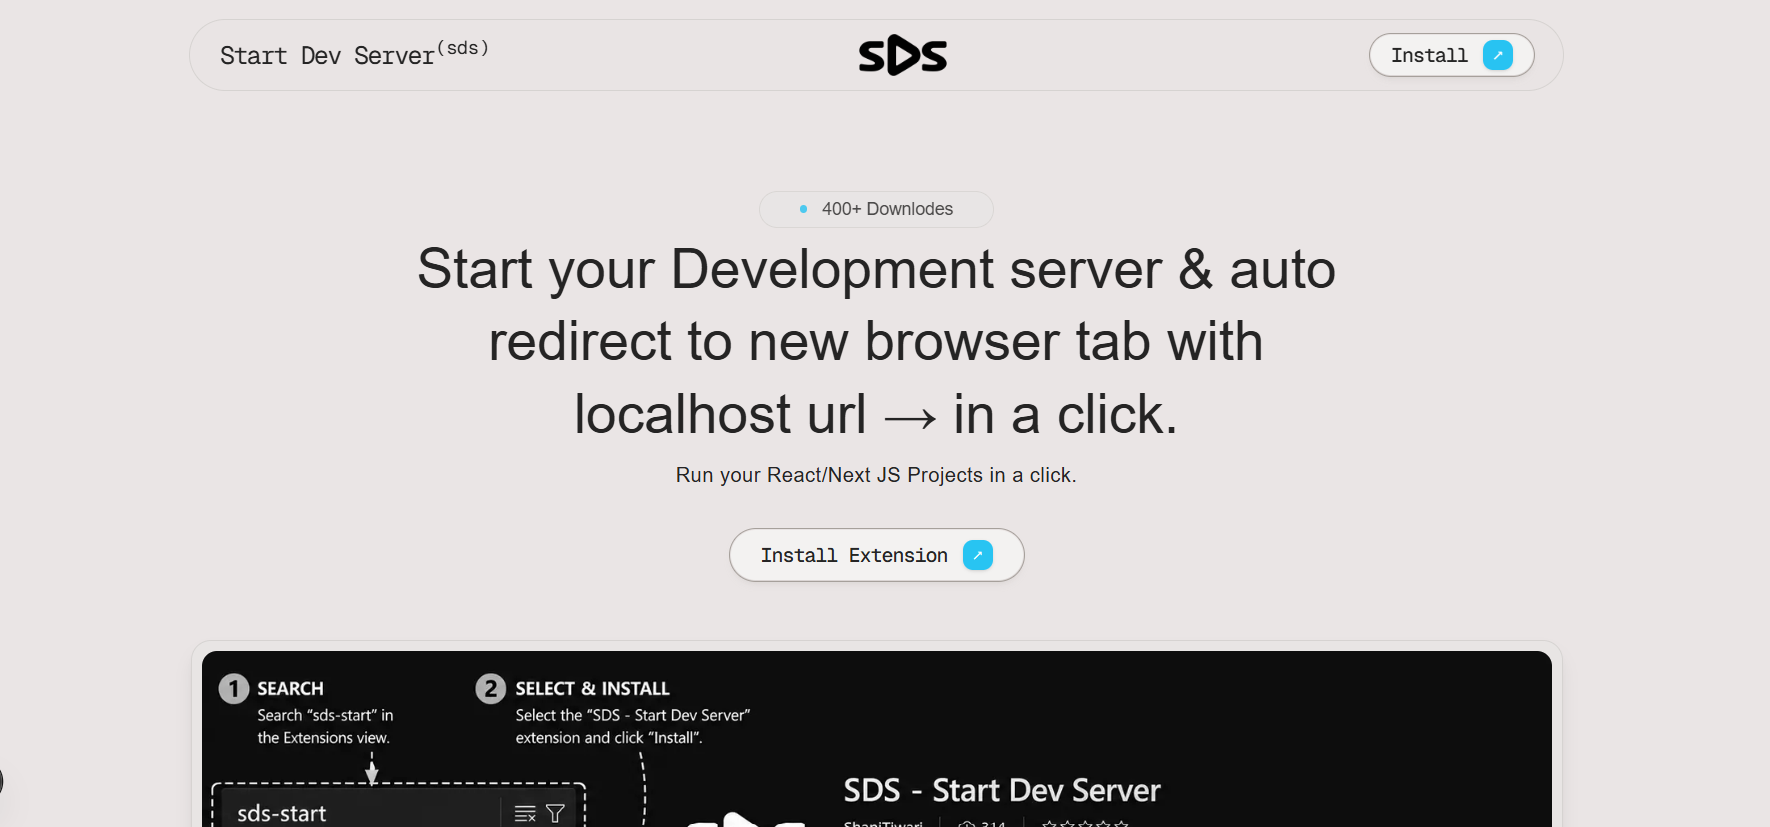
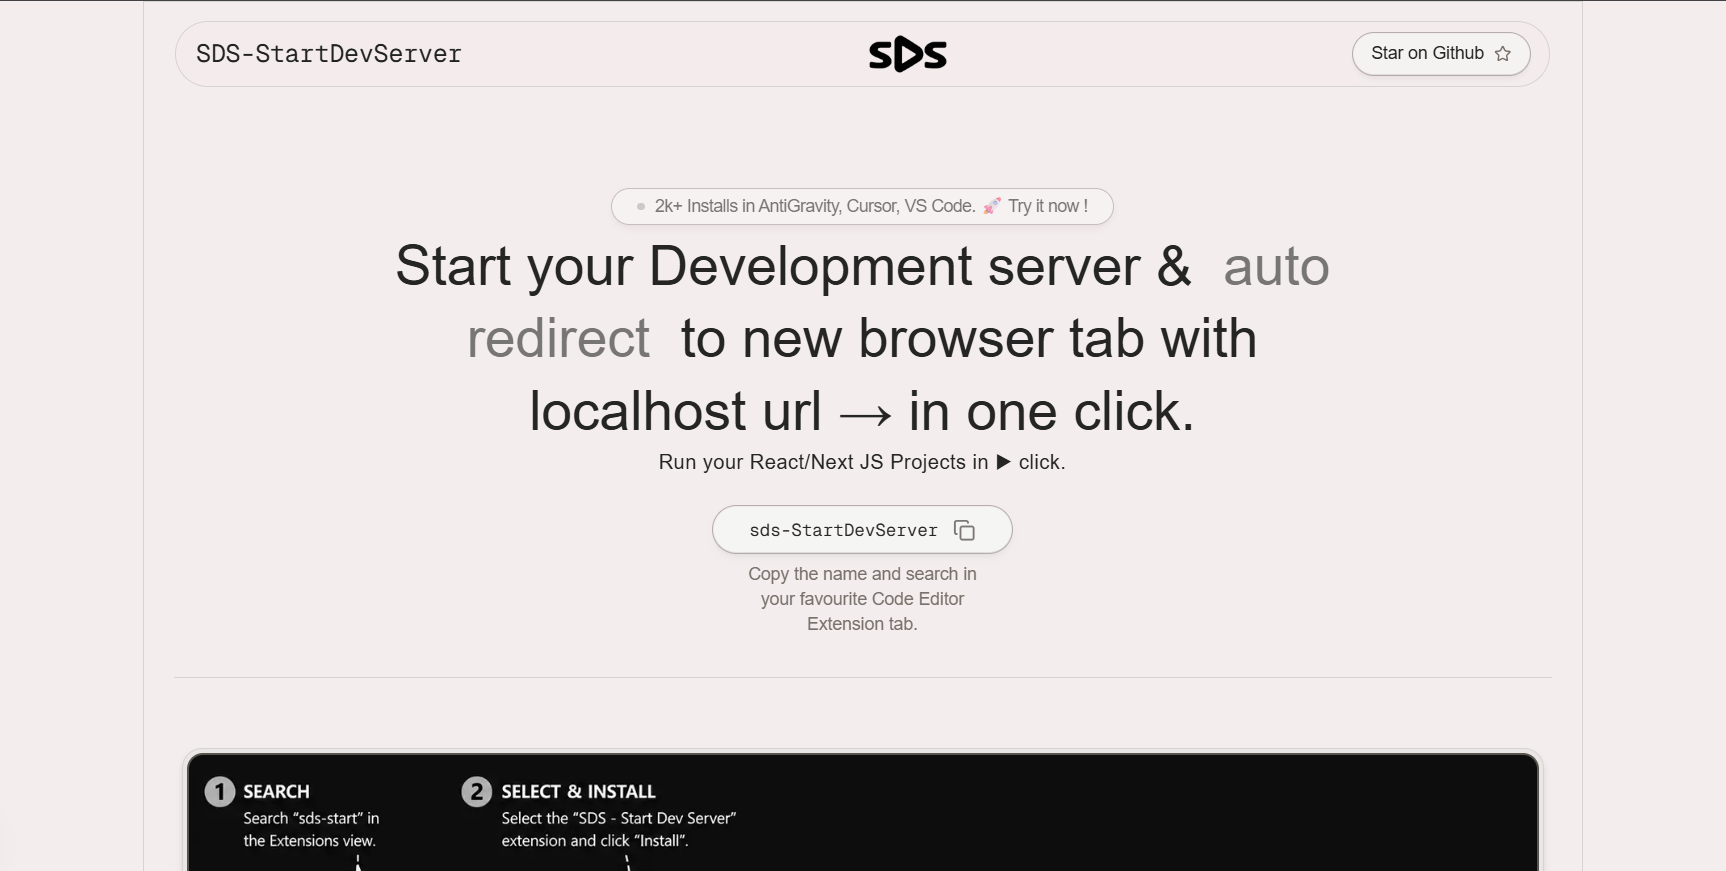
ui: nav, header, feature - enhance

diff --git a/components/Header.tsx b/components/Header.tsx
@@ -11,29 +11,35 @@ import {motion} from 'framer-motion';
         animate={{opacity: 1, y: 0, filter: 'blur(0px)'}} 
         initial={{opacity: 0, y: -20, filter: 'blur(5px)'}}
         transition={{duration: 0.3, delay: 0.25 }}        
-       className=" mt-10 w-fit h-[56vh] md:h-[72vh] flex flex-col items-center justify-end border-b border-b-stone-300 pb-8"> 
+       className=" mt-10 w-fit h-[56vh] md:h-[72vh] flex flex-col items-center justify-end border-b border-b-stone-300 pb-8"
+      > 
 
-        <div className=" badge opacity-60 hover:opacity-80 flex items-center justify-center gap-1 bg-stone-100/80 rounded-full px-5 py-1 text-sm border border-stone-400 shadow-md shadow-stone-400/20">
-
-          <div className="size-1.5 bg-stone-400/80 rounded-md"></div>
-          <Link href="https://open-vsx.org/extension/ShaniTiwari/sds-StartDevServer" 
+        <div className=" badge opacity-60 hover:opacity-80 mb-1 flex items-center justify-center gap-2 bg-stone-100/80 rounded-full px-5 py-1 text-sm border border-stone-400 shadow-md shadow-stone-400/20">
+          <div className="size-1.5 bg-stone-400/80 rounded-md"/>
+          <Link 
+            href="https://open-vsx.org/extension/ShaniTiwari/sds-StartDevServer" 
             target="_blank" 
             rel="noopener noreferrer"
             className='tracking-tight'
           >
-              1800+ Installs in AntiGravity, Cursor. 🚀 
+            2k+ Installs in AntiGravity, Cursor, VS Code. 🚀 Try it now !
           </Link>
-
         </div>
 
         <h1 className="w-[98%] md:w-[70%] text-center text-[22px] md:text-[44px] text-foreground md:leading-14.5">
-          Start your Development server & auto redirect to new browser tab with localhost url → in a click.
+          Start your Development server & &nbsp;
+          <span className="text-foreground/60">
+            auto redirect &nbsp;
+          </span>
+           to new browser tab with localhost url → in one click.
         </h1>
 
-        <p className="w-[40%] text-xs md:text-base text-center mb-6 tracking-wide">Run your React/Next JS Projects in a click.</p>
+        <p className="w-[40%] text-xs md:text-base text-center mb-6 tracking-wide">Run your React/Next JS Projects in ▶ click. </p>
 
-        <PrimaryButton className="px-6 py-2 text-[18px] "/>
-        <p className="text-xs md:text-sm text-stone-500 mt-2 max-w-44 text-center ">Copy the name and search in your favourote editor Extension tab.</p>
+        <PrimaryButton className="px-7 py-2 text-[18px] "/>
+        <p className="text-xs md:text-sm text-stone-500 mt-2 max-w-46 text-center ">
+          Copy the name and search in your favourite Code Editor Extension tab.
+        </p>
 
       </motion.header>
     )

diff --git a/components/Navbar.tsx b/components/Navbar.tsx
@@ -13,11 +13,31 @@ export default function Navbar() {
              transition={{duration: 0.3, damping: 25 }}
              className="fixed top-2 w-full z-99 px-2 "
             >
-                <nav className="max-w-275 px-4 md:px-6 mt-2 py-2 bg-background/20 backdrop-blur-xs flex justify-between mx-auto border border-stone-300 rounded-full">
+                <nav 
+                className="relative max-w-275 px-4  mt-2 py-2 bg-background/20 flex justify-between mx-auto border border-stone-300 rounded-full overflow-hidden">
+
+                    <div 
+                        style={{
+                        filter: 'url(#glassEffect)',
+                        backdropFilter: "blur(3px)",
+                        WebkitBackdropFilter: "blur(3px)",
+                        }}
+                        className="absolute inset-0 pointer-events-none -z-3 "
+                    />
+                     <svg aria-hidden="true" className="absolute h-0 w-0 overflow-hidden">
+                        <defs>
+                            <filter id="glassEffect" >
+                                <feTurbulence type="fractalNoise" baseFrequency="0.006 0.008" numOctaves="7"  result="noise"/>
+                                <feGaussianBlur in="noise" stdDeviation="3" result="softNoise" />
+                                <feDisplacementMap in="SourceGraphic" in2="softNoise" scale="20" />
+                                <feGaussianBlur in="displaced" stdDeviation="0.4" />
+                            </filter>
+                        </defs>
+                    </svg>
 
                     <div className="hidden md:flex items-center justify-center">
-                        <h1 className="relative text-xl text-foreground font-mono tracking-[-0.08rem]">
-                            Start Dev Server <sup className="bg-red-100 absolute top-2 -right-11 tracking-tight">(sds)</sup>
+                        <h1 className="relative text-xl text-foreground font-mono tracking-[-0.01rem]">
+                            SDS-StartDevServer 
                         </h1>
                     </div>
                     <div className="logo md:flex-1 flex items-center justify-center">  

diff --git a/components/About.tsx b/components/About.tsx
@@ -1,23 +1,26 @@
 
 export default function About(){
     const steps = [
-        "Add's a dedicated SDS button in the bottom status bar.",
-        "Click `SDS` or (ctrl+shift+s) to start/stop your project's dev server.",
-        "Auto-detects your project's dev command & local URL.",
-        "Auto-opens the local URL in a new browser tab for you.",
-        "Shows info, warning, and error messages to keep you updated.",
+        "Add's a dedicated `▶ SDS` button in the bottom status bar of Editor.",
+        "Click `▶ SDS` or (ctrl+shift+s) to start/stop your project's dev server.",
+        "Auto-detect the development command from scripts to run the project.",
+        "If project have child folders - SDS give options to choose any, to run.",
+        "Auto re-direct↗  the user to the localhost URL in a new browser tab.",
+        "Shows Info, Warning, and Error - messages to keep you updated.",
     ];
 
   return (
     <section className=" max-w-275 px-4 w-full mx-auto bg-black/1 py-10 rounded-xl md:my-8 flex flex-col font-sans border-b-2 border-b-stone-300">
         <div className="mx-auto">
             <h2 className="text-2xl text-foreground font-semibold mb-12 w-fit">Features...?</h2>
-            <div className="flex flex-col justify-center gap-7  mx-auto w-fit">
+            <div className="flex flex-col justify-center gap-7 mx-auto w-fit">
                 {
                     steps.map((step, i) => 
                         <div key={i} className={`flex items-center gap-4`}>
-                            <span className="size-2.5 bg-stone-700/80  rounded-full  border border-stone-300/70"/>
-                            <p className="text-sm md:text-lg text-foreground/80 font-medium tracking-wide">{step}</p>
+                            <span className="size-2.5 bg-stone-400  rounded-full  border border-stone-300/70"/>
+                            <p className="text-sm md:text-lg text-foreground/80 font-medium tracking-wide">
+                                {step}
+                            </p>
                         </div>
                     )
                 }

diff --git a/components/PrimaryButton.tsx b/components/PrimaryButton.tsx
@@ -20,13 +20,13 @@ export default function PrimaryButton({ className = ""}) {
         <>
             <button
                 onClick={() => copyCommand()}
-                className={`${className} group relative flex items-center justify-center gap-3 bg-stone-100 rounded-full text-sm cursor-pointer outline-1 outline-offset-1 outline-stone-400/80 shadow-md shadow-neutral-300/60 active:scale-98 hover:scale-102 transition-all duration-200 `}
+                className={`${className} group relative flex items-center justify-center gap-3 bg-stone-100 rounded-full text-sm cursor-pointer outline-1 outline-offset-1 outline-stone-400/80 shadow-md shadow-neutral-300/60 active:scale-98 hover:-translate-y-1 transition-all duration-200 `}
             >
                 {/* Command Display Snippet */}
-                <div className="w-fit mx-auto flex items-center justify-between gap-2  font-mono text-xs sm:text-sm text-stone-800">
-                    <span className="truncate tracking-tight">
+                <div className="w-fit mx-auto flex items-center justify-between gap-3 font-mono text-xs sm:text-sm text-stone-800">
+                    {/* <span> */}
                         sds-StartDevServer
-                    </span>
+                    {/* </span> */}
                     <span className="text-stone-800/60 hover:text-stone-800/80 hover:scale-103 transition-all duration-200">
                         {isCopied ? <Check size={18}/> : <Copy size={18}/>}
                     </span>

diff --git a/components/Coffee.tsx b/components/Coffee.tsx
@@ -3,7 +3,7 @@ import Link from "next/link";
 
 export default function Coffee(){
     return (
-        <div className="my-8 w-full md:w-fit bg-black/5 border text-xs md:text-sm text-center text-stone-700/90 border-stone-400/80 rounded-xl flex flex-col items-center justify-center md:px-24  py-6 gap-1">
+        <div className="my-8 w-full md:w-fit bg-black/2 border text-xs md:text-sm text-center text-stone-700/90 border-stone-400/80 rounded-xl flex flex-col items-center justify-center md:px-24  py-6 gap-1">
             <p className="text-stone-800">Installed it ?</p> 
             <p className="text-stone-800">Saved your time ?</p> 
             <p className="text-stone-800">Fasten up your Workflow !</p> 
@@ -14,10 +14,10 @@ export default function Coffee(){
             >
               Buy me a Coffee ☕
             </Link>
-            <div className="w-full flex justify-between px-4 gap-2">
+            <div className="w-full flex justify-between px-4 gap-4 mt-4">
               {
                 Array.from({length: 6}).map((_, i) => (
-                  <div key={i} className="size-8 bg-stone-200 border-2 border-stone-400 rounded-md flex items-center justify-center">
+                  <div key={i} className="size-10 bg-stone-200 border-2 border-stone-400 rounded-md flex items-center justify-center">
                     +
                   </div>
                 ))

diff --git a/components/Footer.tsx b/components/Footer.tsx
@@ -26,14 +26,14 @@ export default function Footer(){
         </div>
         {/* connect with me section  */}
         <div className="flex h-full items-center justify-center gap-4">
-            <Link className="hover:translate-y-1 transition-all duration-300" href='mailto:[shanitiwari2021@gmail.com]'>
+            <Link target="_blank" className="hover:translate-y-1 transition-all duration-300" href='mailto:[shanitiwari2021@gmail.com]'>
                 Email me
             </Link>
-            <Link className="hover:translate-y-1 transition-all duration-300" href='https://twitter.com/shanidevelops'>
+            <Link target="_blank" className="hover:translate-y-1 transition-all duration-300" href='https://twitter.com/shanidevelops'>
                 Twitter
             </Link>
-            <Link className="hover:translate-y-1 transition-all duration-300" href='https://github.com/shani-tiwari'>
-                GitHub
+            <Link target="_blank" className="hover:translate-y-1 transition-all duration-300" href='https://linkedin.com/in/shani-tiwarii'>
+                LinkedIn
             </Link>
         </div>
     </footer>

diff --git a/app/page.tsx b/app/page.tsx
@@ -31,14 +31,14 @@ function ImageSet(){
          animate={{scale: 1, opacity: 1, filter: 'blur(0px)'}} 
          initial={{scale: 0.8, opacity: 0, filter: 'blur(5px)'}}
          transition={{duration: 0.5, delay: 0.35}}
-         className=" p-2 bg-stone-200/80 border border-stone-300 rounded-2xl my-8 shadow-md ">
+         className=" p-1 bg-stone-200/80 border border-stone-300 rounded-2xl my-8 shadow-md ">
           <Image
             src="/sds-preview.png"
             alt="SDS extension Preview page image"
             width={1080}
             height={500}
             loading="eager"
-            className="mx-auto rounded-lg outline-2 -outline-offset-1 outline-stone-600"
+            className="mx-auto rounded-xl outline-2 -outline-offset-1 outline-stone-600"
           />
         </motion.div>
   )
